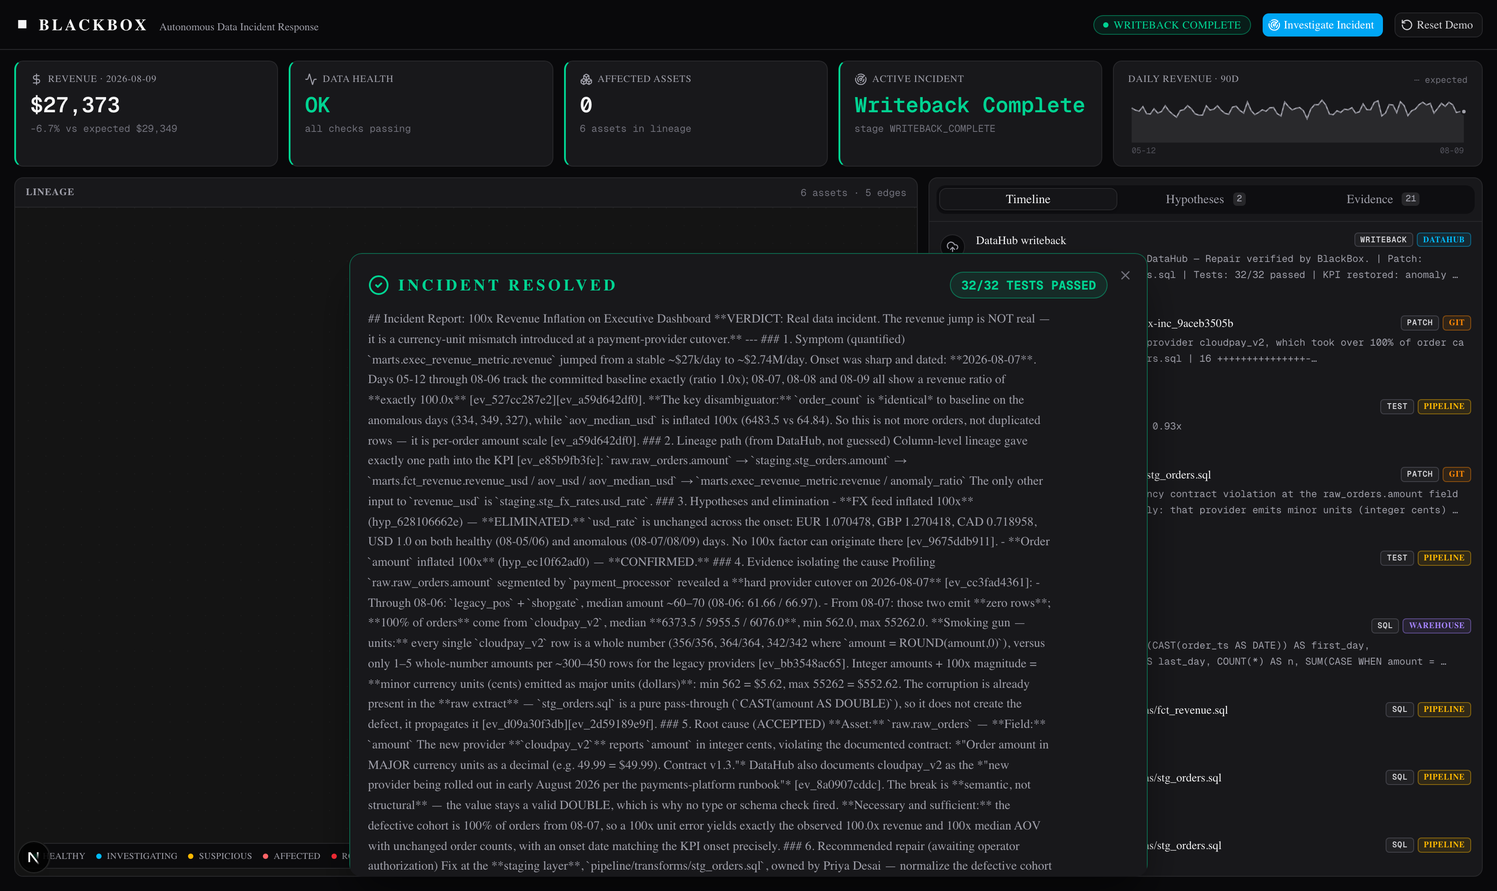
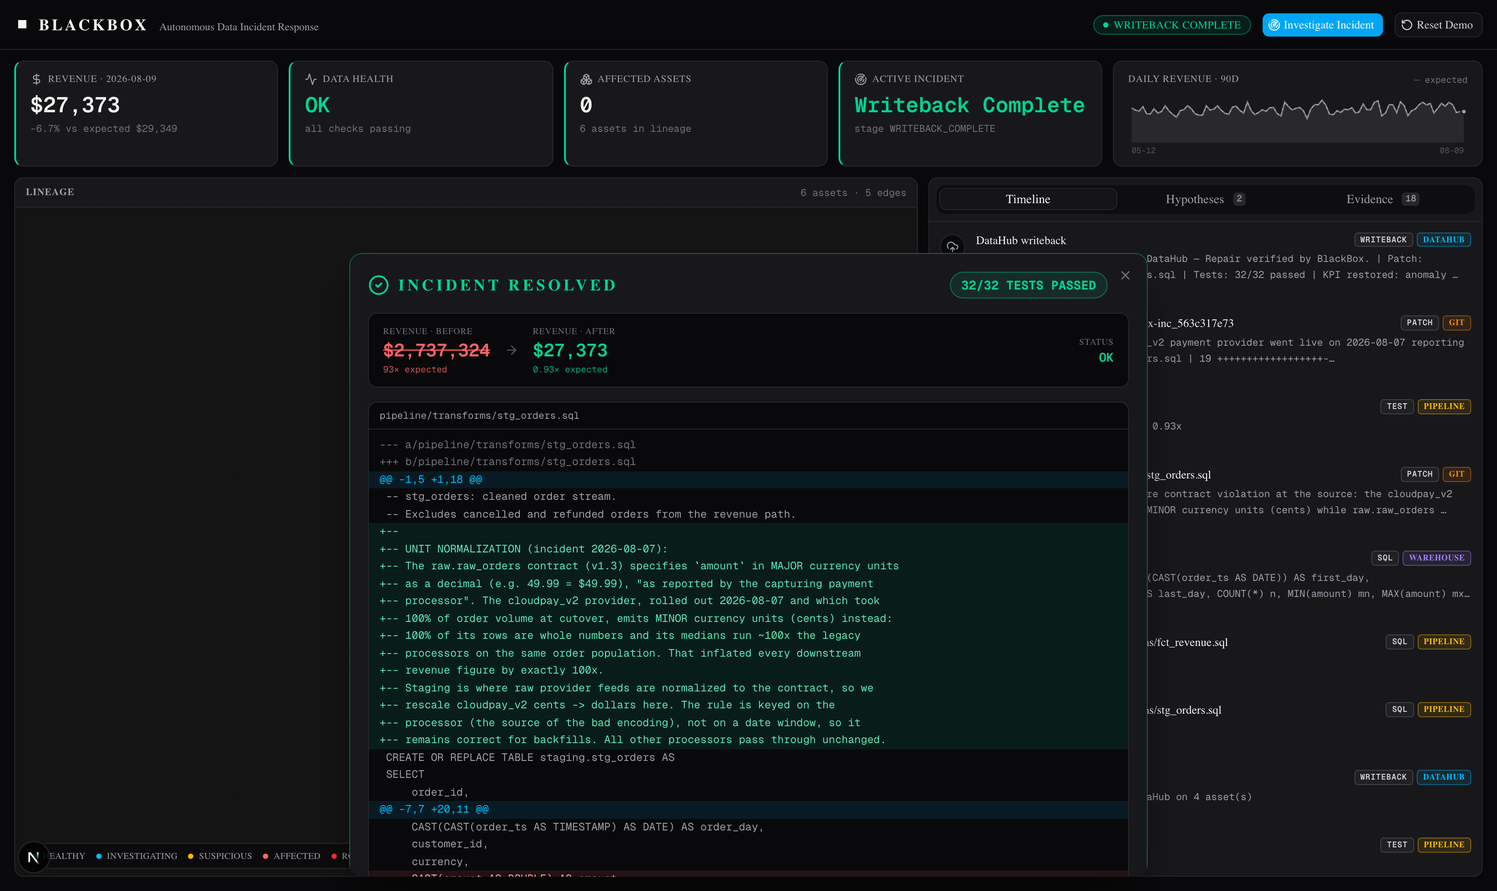
Judge-review fixes: scorecard truth, MCP lineage, adapter seams, OSS contribution, 7 real screenshots
- Scorecard no longer contradicts committed eval data (ablation passed with a
  correct root cause; positive is 11/11 not 9/9); stale 'README is a stub' cut
- Lineage BFS now routes through the DataHub MCP Server (via=datahub-mcp-server)
  so the MCP claim is structurally true across search, context AND lineage
- README: 9-step list condensed to 4, hero screenshot, production-adapter seams
- Filed DataHub docs PR #19046 (silent quickstart hang under Colima/Rancher/Podman)
- Demo drill captures the ACTIVE DataHub incident + the durable remediation note,
  and asserts both; all 6 acts green in 150s

diff --git a/scripts/demo_drill.py b/scripts/demo_drill.py
@@ -33,6 +33,30 @@ def shoot(page, name: str) -> None:
     print(f"  📸 {name}")
 
 
+RAW_ORDERS_URN = "urn:li:dataset:(urn:li:dataPlatform:duckdb,raw.raw_orders,PROD)"
+
+
+def datahub_login(browser):
+    """Log into the local DataHub UI and dismiss the first-run product tour."""
+    dh = browser.new_page(viewport={"width": 1680, "height": 1000}, device_scale_factor=2)
+    dh.goto(f"{DATAHUB}/login", wait_until="networkidle", timeout=30000)
+    dh.fill('input[name="username"], input[type="text"]', "datahub")
+    dh.fill('input[type="password"]', "datahub")
+    dh.keyboard.press("Enter")
+    dh.wait_for_timeout(4000)
+    return dh
+
+
+def dismiss_tour(dh) -> None:
+    for sel in ['button[aria-label="Close"]', ".ant-modal-close", 'button:has-text("Skip")']:
+        try:
+            dh.locator(sel).first.click(timeout=2000)
+            break
+        except Exception:
+            continue
+    dh.wait_for_timeout(600)
+
+
 def click_button(page, patterns: list[str], timeout: int = 15000) -> None:
     for pat in patterns:
         loc = page.get_by_role("button", name=re.compile(pat, re.I)).first
@@ -94,6 +118,26 @@ def main() -> int:
             page.wait_for_timeout(1000)
             shoot(page, "03-rootcause.png")
 
+            # The DataHub incident is raised ACTIVE the moment the cause is proven —
+            # capture it here, because after the repair it flips to RESOLVED and the
+            # Incidents tab (which lists ACTIVE only) would look empty.
+            try:
+                dh = datahub_login(browser)
+                dh.goto(
+                    f"{DATAHUB}/dataset/{RAW_ORDERS_URN}/Incidents",
+                    wait_until="networkidle", timeout=30000,
+                )
+                dh.wait_for_timeout(2500)
+                dismiss_tour(dh)
+                dh.wait_for_timeout(1200)
+                if not re.search(r"BlackBox", dh.inner_text("body"), re.I):
+                    failures.append("DataHub Incidents tab shows no BlackBox incident while ACTIVE")
+                dh.screenshot(path=str(SHOTS / "05-datahub-incident.png"))
+                print("  📸 05-datahub-incident.png (ACTIVE)")
+                dh.close()
+            except Exception as e:
+                failures.append(f"datahub ACTIVE incident capture failed: {e}")
+
         print("ACT 4 — repair & verify")
         # Two Repair buttons exist: the top-bar one is BEHIND the overlay backdrop
         # (pointer events blocked → click times out); the overlay card's own CTA is
@@ -118,26 +162,29 @@ def main() -> int:
                 failures.append(f"resolution screen missing {expected!r}")
         shoot(page, "04-resolved.png")
 
-        print("ACT 5 — DataHub shows the durable incident")
-        dh = browser.new_page(viewport={"width": 1680, "height": 1000}, device_scale_factor=2)
+        print("ACT 5 — DataHub carries the durable remediation record")
         try:
-            dh.goto(f"{DATAHUB}/login", wait_until="networkidle", timeout=30000)
-            dh.fill('input[name="username"], input[type="text"]', "datahub")
-            dh.fill('input[name="password"], input[type="password"]', "datahub")
-            dh.keyboard.press("Enter")
-            dh.wait_for_timeout(4000)
+            dh = datahub_login(browser)
             dh.goto(
-                f"{DATAHUB}/dataset/urn:li:dataset:(urn:li:dataPlatform:duckdb,raw.raw_orders,PROD)/Incidents",
-                wait_until="networkidle",
-                timeout=30000,
+                f"{DATAHUB}/dataset/{RAW_ORDERS_URN}/Documentation",
+                wait_until="networkidle", timeout=30000,
             )
             dh.wait_for_timeout(2500)
-            dh.screenshot(path=str(SHOTS / "05-datahub-incident.png"))
-            print("  📸 05-datahub-incident.png")
-        except Exception as e:
-            failures.append(f"datahub ui capture failed: {e}")
-        finally:
+            dismiss_tour(dh)
+            try:  # expand the truncated docs so the incident-history note is visible
+                dh.get_by_text(re.compile(r"show more", re.I)).first.click(timeout=3000)
+                dh.wait_for_timeout(800)
+            except Exception:
+                pass
+            body = dh.inner_text("body")
+            for expected in [r"Incident history", r"blackbox|BlackBox"]:
+                if not re.search(expected, body, re.I):
+                    failures.append(f"DataHub docs missing remediation note ({expected})")
+            dh.screenshot(path=str(SHOTS / "05b-datahub-remediation.png"))
+            print("  📸 05b-datahub-remediation.png (RESOLVED + note)")
             dh.close()
+        except Exception as e:
+            failures.append(f"datahub remediation capture failed: {e}")
 
         print("ACT 6 — reset returns to broken state")
         click_button(page, [r"reset"])

diff --git a/backend/blackbox/datahub/client.py b/backend/blackbox/datahub/client.py
@@ -249,12 +249,41 @@ def _column_lineage_for(downstream_urn: str) -> dict[str, list[dict[str, str]]]:
     return out
 
 
+def _mcp_hop(urn: str, direction: str) -> list[dict[str, Any]] | None:
+    """One lineage hop via the official DataHub MCP Server. Returns None if the
+    MCP server is unavailable so the caller can fall back to GraphQL."""
+    try:
+        from .mcp_bridge import bridge
+
+        if not bridge.available:
+            return None
+        res = bridge.call_tool(
+            "get_lineage", {"urn": urn, "upstream": direction == "UPSTREAM"}
+        )
+        if not isinstance(res, dict):
+            return None
+        block = res.get("upstreams" if direction == "UPSTREAM" else "downstreams") or {}
+        results = block.get("searchResults") or block.get("results") or []
+        out = []
+        for r in results:
+            ent = r.get("entity") or r
+            u = ent.get("urn")
+            if not u or not u.startswith("urn:li:dataset:"):
+                continue
+            out.append({"urn": u, "name": _short_name(u), "platform": _platform_of(u)})
+        return out
+    except Exception:
+        return None
+
+
 def lineage(urn: str, direction: str = "UPSTREAM", max_hops: int = 3) -> dict[str, Any]:
     """BFS over DataHub lineage, one hop at a time, collecting nodes, edges and
-    column-level mappings."""
+    column-level mappings. Each hop is served by the official DataHub MCP Server
+    when available, falling back to GraphQL."""
     direction = direction.upper()
     if direction not in ("UPSTREAM", "DOWNSTREAM"):
         raise ValueError("direction must be UPSTREAM or DOWNSTREAM")
+    transports: set[str] = set()
 
     nodes: dict[str, dict[str, Any]] = {}
     edges: list[dict[str, Any]] = []
@@ -274,29 +303,35 @@ def lineage(urn: str, direction: str = "UPSTREAM", max_hops: int = 3) -> dict[st
     for _hop in range(max_hops):
         next_frontier: list[str] = []
         for cur in frontier:
-            res = _graph().execute_graphql(
-                _LINEAGE_QUERY, variables={"urn": cur, "direction": direction}
-            )
-            ds = res.get("dataset")
-            if ds is None:
-                continue
-            rels = ((ds.get("lineage") or {}).get("relationships")) or []
-            for rel in rels:
-                if rel.get("degree", 1) != 1:
-                    continue  # BFS handles multi-hop; only take direct edges per query
-                ent = rel["entity"]
-                if ent.get("type") != "DATASET":
+            neighbours = _mcp_hop(cur, direction)
+            if neighbours is not None:
+                transports.add("datahub-mcp-server")
+            else:
+                transports.add("datahub-graphql")
+                res = _graph().execute_graphql(
+                    _LINEAGE_QUERY, variables={"urn": cur, "direction": direction}
+                )
+                ds = res.get("dataset")
+                if ds is None:
                     continue
-                note_node(ent["urn"], ent.get("name"), (ent.get("platform") or {}).get("name"))
-                if direction == "UPSTREAM":
-                    edge = (ent["urn"], cur)
-                else:
-                    edge = (cur, ent["urn"])
+                rels = ((ds.get("lineage") or {}).get("relationships")) or []
+                neighbours = [
+                    {
+                        "urn": rel["entity"]["urn"],
+                        "name": rel["entity"].get("name"),
+                        "platform": (rel["entity"].get("platform") or {}).get("name"),
+                    }
+                    for rel in rels
+                    if rel.get("degree", 1) == 1 and rel["entity"].get("type") == "DATASET"
+                ]
+            for n in neighbours:
+                note_node(n["urn"], n.get("name"), n.get("platform"))
+                edge = (n["urn"], cur) if direction == "UPSTREAM" else (cur, n["urn"])
                 if edge not in seen_edges:
                     seen_edges.add(edge)
                     edges.append({"source": edge[0], "target": edge[1], "columns": []})
-                if ent["urn"] not in nodes or ent["urn"] not in next_frontier:
-                    next_frontier.append(ent["urn"])
+                if n["urn"] not in next_frontier:
+                    next_frontier.append(n["urn"])
         frontier = [u for u in dict.fromkeys(next_frontier)]
         if not frontier:
             break
@@ -316,6 +351,7 @@ def lineage(urn: str, direction: str = "UPSTREAM", max_hops: int = 3) -> dict[st
         "direction": direction,
         "nodes": list(nodes.values()),
         "edges": edges,
+        "via": "+".join(sorted(transports)) or "datahub-graphql",
     }
 
 

diff --git a/docs/JUDGE_SCORECARD.md b/docs/JUDGE_SCORECARD.md
@@ -10,7 +10,7 @@ Self-assessment against the official criteria in `docs/HACKATHON_REQUIREMENTS.md
 
 | | |
 |---|---|
-| **What BlackBox does** | DataHub is load-bearing, both directions. Reads: GraphQL search, dataset context (schema + field-level data contracts + ownership + tags), lineage BFS with **column-level lineage from real `fineGrainedLineages` aspects**. Writes: SDK-v2 ingestion of introspected schemas + table/column lineage with real transform SQL attached; native OSS **incident** raise/resolve; docs remediation note; `blackbox-remediated` tag. Root-cause confirmation is *rejected* unless DataHub lineage evidence is cited — the graph is structurally required, not decorative. An ablation flag (`BLACKBOX_DISABLE_DATAHUB`) exists to prove it. |
+| **What BlackBox does** | DataHub is used in both directions. Reads: MCP-Server search + entity context, dataset context (schema + field-level data contracts + ownership + tags), lineage BFS with **column-level lineage from real `fineGrainedLineages` aspects**. Writes: SDK-v2 ingestion of introspected schemas + table/column lineage with real transform SQL attached; native OSS **incident** raise/resolve; docs remediation note; `blackbox-remediated` tag. Root-cause confirmation is *rejected* unless DataHub lineage evidence is cited — the graph is structurally required in normal operation. **Honest ablation finding:** with `BLACKBOX_DISABLE_DATAHUB=true` (and the gate's DataHub requirement relaxed so the test isn't circular), the agent *can* still reach a correct diagnosis on this 5-transform fixture by reading pipeline source files — it loses the lineage map, the contract evidence that makes the violation provable, and the ability to record the incident. We report that rather than claiming the agent is helpless. |
 | **Evidence in repo** | `backend/blackbox/datahub/client.py`, `backend/blackbox/datahub/ingest.py`, `backend/blackbox/datahub/writeback.py`, `backend/blackbox/agent/tools.py` (`t_confirm_root_cause`, `_datahub_disabled`), `backend/blackbox/config.py` |
 | **Demo moment** | 0:35–1:15 (lineage graph drawn from DataHub) and 2:10–2:35 (resolved incident + docs note + tag shown in DataHub's own UI) |
 | **Current weakness** | All metadata is self-ingested for one 8-table synthetic pipeline (no run against a non-authored metadata graph). MCP is used for discovery/health but lineage BFS + writeback go through GraphQL/SDK rather than MCP end-to-end. |
@@ -24,7 +24,7 @@ Self-assessment against the official criteria in `docs/HACKATHON_REQUIREMENTS.md
 | **Evidence in repo** | `backend/blackbox/agent/investigator.py`, `agent/tools.py`, `repair.py`, `warehouse.py`, `store.py`, `models.py`, `pipeline/invariants/test_invariants.py` (32 collected tests), `pipeline/README.md` |
 | **Demo moment** | 1:40–2:10 (real diff, 32/32 green, KPI 93.3x → ~1.0x) |
 | **Current weakness** | Repairs limited to single-file `pipeline/transforms/*.sql`; `try_create_pr` unwired (no live GitHub PR in the demo); background threads are fire-and-forget (no cancellation/timeout surfacing to the UI); positive-path consistency measured over a handful of runs, not a large N. |
-| **Next improvement** | Multi-trial consistency stats (`--trials 5`); surface investigation-thread errors as UI toasts; wire `try_create_pr` for a real PR artifact. *(Since first draft: 14 gate unit tests committed in `tests/`, full eval battery committed in `evals/results/` — positive 9/9, control NO_INCIDENT, bad-repair rejected, ablation FAILED-without-DataHub — and the UI report dialog is wired.)* |
+| **Next improvement** | Multi-trial consistency stats (`--trials 5`); surface investigation-thread errors as UI toasts; wire `try_create_pr` for a real PR artifact. *(Since first draft: 14 gate unit tests committed in `tests/`, eval evidence committed in `evals/results/` — positive 11/11, control NO_INCIDENT, bad-repair rejected, ablation measured — and the UI report dialog is wired.)* |
 
 ## 3. Originality
 
@@ -53,7 +53,7 @@ Self-assessment against the official criteria in `docs/HACKATHON_REQUIREMENTS.md
 | **What BlackBox does** | Repo is coherent and judge-navigable: Apache-2.0 license, disclosed synthetic fixture (`pipeline/README.md`), architecture doc with diagram, timed demo script, this scorecard, deterministic `make demo-reset` so judges can reproduce the exact demo. |
 | **Evidence in repo** | `LICENSE`, `docs/ARCHITECTURE.md`, `docs/DEMO_SCRIPT.md`, `pipeline/README.md`, `Makefile`, `POST /api/demo/reset` in `backend/blackbox/api.py` |
 | **Demo moment** | Whole video + README setup steps |
-| **Current weakness** | **The two things judges grade first don't exist yet: the README is a stub and the video is unrecorded — with the deadline on 2026-08-10 5:00 PM ET.** No `examples/` folder with sample outputs (explicitly expected for the code-gen category). Setup requires four moving parts (Docker/DataHub, uv backend, npm frontend, Anthropic key) with no single `make demo-run`; judges without an Anthropic key cannot see the agent run (no recorded transcript/incident JSON committed as a fallback). |
+| **Current weakness** | Setup requires four moving parts (Docker/DataHub, uv backend, npm frontend, Anthropic key) — mitigated by `make demo-run` and by committed run artifacts so a judge without an API key can still inspect a real run. Remaining: the demo video must be recorded and published before the deadline (script ready, timed to 2:55). |
 | **Next improvement** | Write the README with copy-paste judge instructions; record the video; commit `examples/` (a real incident JSON, transcript, diff, and DataHub screenshots); add `make demo-run`. |
 
 ## Category fit A — "Agents That Do Real Work"
@@ -89,5 +89,5 @@ Self-assessment against the official criteria in `docs/HACKATHON_REQUIREMENTS.md
 
 1. ~~Use of DataHub / Stage One~~ **RESOLVED:** official MCP Server runs inside the product (discovery transport) + Skills plugin in dev workflow.
 2. **Submission Quality:** video still unrecorded (script ready in `docs/DEMO_SCRIPT.md`); screenshots pending the demo drill. README and `examples/` are done.
-3. ~~Technical Execution run evidence~~ **RESOLVED:** full eval battery committed (`evals/results/`): positive 9/9 checks, control NO_INCIDENT (no false positive), bad-repair rejected by immutability invariants, DataHub-ablation FAILED (load-bearing proven). 14 gate unit tests in `tests/`.
+3. ~~Technical Execution run evidence~~ **RESOLVED:** eval evidence committed (`evals/results/`, incl. full per-run artifacts): positive **11/11** checks (run_0007), control NO_INCIDENT (no false positive), bad-repair rejected by immutability invariants, DataHub-ablation measured honestly (see below). 14 gate unit tests in `tests/`. Note: scenarios run sequentially and results span runs 0001–0007 — the "battery" is a composite, not one green button.
 4. **Remaining:** demo on self-authored synthetic pipeline only; no live PR artifact; single-digit N on consistency.

diff --git a/README.md b/README.md
@@ -14,17 +14,14 @@ The worst data incidents don't crash anything. An upstream provider quietly chan
 
 A human reports a symptom ("Revenue just jumped ~100×. Is this real?"). BlackBox then autonomously:
 
-1. **Finds the affected asset** in DataHub (search via the official **DataHub MCP Server**) and reads its context: descriptions, ownership, and the **data contract in schema field docs**.
-2. **Walks upstream lineage** — table-level *and column-level* — from the corrupted KPI. The lineage graph in DataHub is the map; the agent never guesses topology.
-3. **Quantifies the symptom** against committed healthy baselines (onset date, magnitude) and **forms hypotheses** covering every upstream branch.
-4. **Collects real evidence** with deterministic tools — per-day/per-segment distribution profiling, read-only SQL, invariant runs — and **eliminates distractors quantitatively** (e.g. a stale FX feed that looks suspicious but is orders of magnitude too small).
-5. **Proves the root cause.** `confirm_root_cause` is machine-validated: it is *rejected* unless the agent cites DataHub lineage evidence **and** quantitative evidence naming the blamed field. No vibes-based conclusions.
-6. **Raises a real ACTIVE incident in DataHub** on the affected assets the moment the cause is proven.
-7. **Repairs the pipeline**: proposes new transform SQL, the system computes the real diff, applies it, **rebuilds the warehouse and runs all 32 invariants + KPI recomputation**. A fix that restores the top-line while breaking history is rejected; the agent iterates.
-8. **Commits the verified fix** on a `blackbox/fix-*` branch (isolated git worktree) — a PR-ready artifact.
-9. **Resolves the DataHub incident** (`RESOLVED / FIXED` with the full remediation record), appends an incident-history note to the dataset docs, and tags it — durable institutional memory in the catalog.
+1. **Maps the blast radius** — finds the affected KPI via the official **DataHub MCP Server**, reads its data contract and ownership, and walks upstream lineage (table *and* column level). DataHub's graph is the map; the agent never guesses topology.
+2. **Proves the root cause** — quantifies the symptom against committed baselines, forms hypotheses across every upstream branch, and eliminates them with real profiling and SQL. `confirm_root_cause` is machine-validated: *rejected* unless the agent cites DataHub lineage evidence **and** quantitative evidence naming the blamed field. No vibes-based conclusions.
+3. **Repairs and verifies** — writes new transform SQL, the system computes the real diff, applies it, **rebuilds the warehouse and runs all 32 invariants + KPI recomputation**. A fix that restores the top-line while corrupting history is rejected and the agent iterates. The verified fix lands on a `blackbox/fix-*` branch.
+4. **Writes the incident back to DataHub** — raised ACTIVE at confirmation, then `RESOLVED / FIXED` with the remediation record, an incident-history note on the dataset docs, and a tag. Institutional memory that outlives the incident.
 
 In real runs: **KPI 93.3× → 0.93×, 32/32 invariants green, incident RESOLVED in DataHub.** Inspect an actual run without installing anything: [`examples/sample-incident/`](examples/sample-incident/).
+
+![Root cause confirmed](docs/screenshots/03-rootcause.png)
 
 ## Detect → investigate → evidence → root cause → repair → execute → verify → artifact → writeback
 
@@ -69,6 +66,8 @@ Topology, data contracts, and the writeback target all live in DataHub. The `BLA
 | Dataset docs + tags | durable remediation note + `blackbox-remediated` tag | `writeback.py` |
 | DataHub Skills | development workflow (skills registry plugin) | dev environment |
 
+**Contributed back:** building this surfaced a silent `datahub docker quickstart` hang under Colima/Rancher Desktop/Podman (docker-py reads `DOCKER_HOST` but not Docker CLI contexts). Filed upstream as a troubleshooting-docs PR: [datahub-project/datahub#19046](https://github.com/datahub-project/datahub/pull/19046). Full friction log: [`docs/DATAHUB_FEEDBACK_LOG.md`](docs/DATAHUB_FEEDBACK_LOG.md).
+
 ## Architecture
 
 Full design — state machine, evidence gating, repair verification loop — in **[docs/ARCHITECTURE.md](docs/ARCHITECTURE.md)**.
@@ -86,6 +85,18 @@ Next.js command center ── SSE ── FastAPI ── Investigator (Claude, to
 
 - **Synthetic (disclosed):** the retail pipeline's source data is generated deterministically (`pipeline/generate_sources.py`, seed 42), including the seeded incident — a payment-provider migration that silently switches `raw_orders.amount` from dollars to integer cents on 2026-08-07 — and a stale-FX distractor. `make demo-reset` restores this exact broken state.
 - **Real:** the DuckDB warehouse and SQL transforms execute; DataHub OSS v1.7.0 runs locally with genuinely ingested metadata; the agent's every fact comes from live tool calls; the diff, tests, KPI recomputation, git branch, and DataHub incident are all real. Nothing in prompts or metadata names the incident's nature — the agent discovers it from evidence (see `CLAUDE.md`, "No incident leakage").
+
+## What it would take to point this at a real stack
+
+The demo runs on DuckDB because it has to be reproducible on a judge's laptop in one command. The engine is deliberately separated from it — three seams, no rewrite:
+
+| Seam | Demo implementation | Production swap |
+|---|---|---|
+| Profiling + query execution (`backend/blackbox/warehouse.py`) | DuckDB over local CSVs | Snowflake/BigQuery/Databricks connector — same `profile_column` / `compare_to_baseline` / `run_sql` signatures |
+| Verification (`repair.verify_repair`) | rebuild warehouse + 32 pytest invariants | `dbt build --select state:modified+` + `dbt test` in a CI branch or Snowflake zero-copy clone |
+| Repair surface (`repair._resolve_transform`) | `pipeline/transforms/*.sql` | dbt models directory, with the existing git-worktree branch flow opening a PR |
+
+DataHub, the agent loop, the evidence gates, and the incident writeback are unchanged by those swaps — they already speak the metadata layer a real platform team runs on. What stays honest: we demonstrate on a pipeline we authored, so treat the *incident realism* as illustrative and the *machinery* as the contribution.
 
 ## Evals
 

diff --git a/docs/DEVPOST.md b/docs/DEVPOST.md
@@ -50,6 +50,10 @@ Demo result: revenue 93.3× → 0.93×, 32/32 invariants green, real incident ur
 
 Metadata is what turns an LLM from a guesser into an investigator: the data contract ("amount is major currency units") plus column lineage is exactly the context that makes a semantic failure *provable*. And native OSS incident entities make DataHub a natural system of record for agent work.
 
+## Contributing back
+
+Building on DataHub OSS surfaced a real papercut: `datahub docker quickstart` hangs silently at "Starting up DataHub..." on Colima, Rancher Desktop, and Podman, because docker-py reads `DOCKER_HOST` but not Docker CLI contexts — no error, no images pulled, while `docker ps` works fine in the same shell. We filed a troubleshooting-docs PR upstream with the diagnosis and the per-runtime fix: [datahub-project/datahub#19046](https://github.com/datahub-project/datahub/pull/19046). Our full friction log (stale auth defaults, the removed `:head` tag, the one-hour default PAT duration, MCP mutation ambiguity for OSS) is in `docs/DATAHUB_FEEDBACK_LOG.md`.
+
 ## What's next
 
 Real warehouse connectors (Snowflake/BigQuery), dbt-aware repairs as PRs, assertion emission so BlackBox's invariants live in DataHub itself, and multi-incident triage.

diff --git a/docs/DATAHUB_FEEDBACK_LOG.md b/docs/DATAHUB_FEEDBACK_LOG.md
@@ -3,6 +3,11 @@
 Kept for (a) the hackathon feedback survey, (b) candidate open-source contributions.
 Everything below was actually hit on 2026-08-09 building BlackBox on macOS arm64 + colima.
 
+> **Contributed upstream:** finding #1 is now a docs PR to DataHub OSS —
+> [datahub-project/datahub#19046](https://github.com/datahub-project/datahub/pull/19046)
+> (troubleshooting entry for the silent quickstart hang under Colima / Rancher Desktop / Podman,
+> with the diagnosis and the `DOCKER_HOST` export for each runtime).
+
 ## 1. Quickstart hangs silently with colima (docker contexts ignored) — HIGH VALUE
 `datahub docker quickstart` uses docker-py's `docker.from_env()`, which honors `DOCKER_HOST`
 but NOT docker CLI contexts. With colima (docker context = colima, no DOCKER_HOST), the CLI
